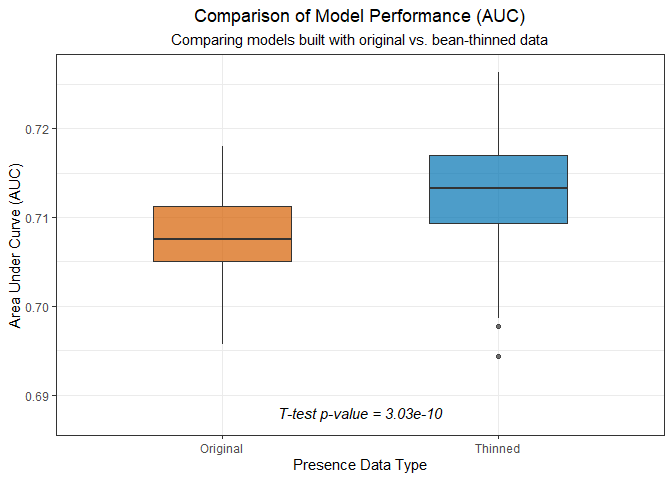
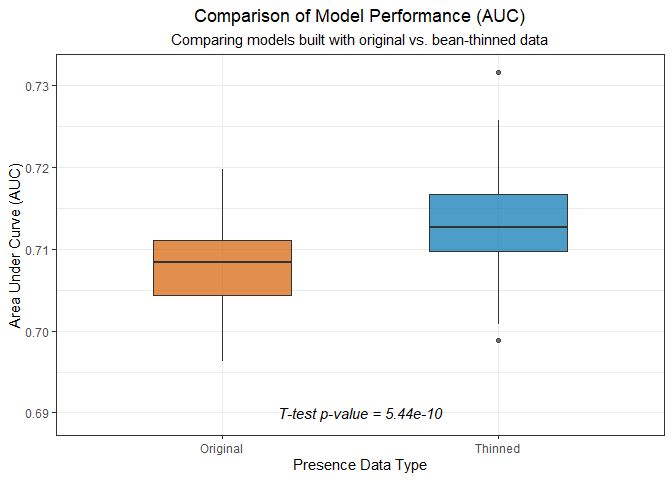
add update

diff --git a/README.md b/README.md
@@ -7,13 +7,11 @@
 
 [![R-CMD-check](https://github.com/paanwaris/bean/actions/workflows/R-CMD-check.yaml/badge.svg)](https://github.com/paanwaris/bean/actions/workflows/R-CMD-check.yaml)
 [![Codecov test
-coverage](https://codecov.io/gh/paanwaris/bean/branch/main/graph/badge.svg)](https://app.codecov.io/gh/paanwaris/bean?branch=main)
+coverage](https://codecov.io/gh/paanwaris/bean/graph/badge.svg)](https://app.codecov.io/gh/paanwaris/bean)
 [![Lifecycle:
 experimental](https://img.shields.io/badge/lifecycle-experimental-orange.svg)](https://lifecycle.r-lib.org/articles/stages.html#experimental)
 [![License:
 MIT](https://img.shields.io/badge/License-MIT-yellow.svg)](https://opensource.org/licenses/MIT)
-[![Codecov test
-coverage](https://codecov.io/gh/paanwaris/bean/graph/badge.svg)](https://app.codecov.io/gh/paanwaris/bean)
 <!-- badges: end -->
 
 ## Ecological Motivation
@@ -572,7 +570,7 @@ auc_original
 #> 
 #> Summary of AUC Scores:
 #>   Mean_AUC SD_AUC Median_AUC Min_AUC Max_AUC
-#> 1    0.708  0.005      0.708   0.696   0.718
+#> 1    0.708  0.005      0.708   0.696    0.72
 #> 
 #> To see the distribution of AUC scores, run plot(your_results_object).
 
@@ -628,7 +626,7 @@ auc_thinned
 #> 
 #> Summary of AUC Scores:
 #>   Mean_AUC SD_AUC Median_AUC Min_AUC Max_AUC
-#> 1    0.713  0.006      0.713   0.694   0.726
+#> 1    0.713  0.006      0.713   0.699   0.732
 #> 
 #> To see the distribution of AUC scores, run plot(your_results_object).
 
@@ -646,13 +644,13 @@ auc_ttest
 #>  Welch Two Sample t-test
 #> 
 #> data:  auc_original$all_auc_scores and auc_thinned$all_auc_scores
-#> t = -6.674, df = 178.55, p-value = 3.028e-10
+#> t = -6.5426, df = 190.49, p-value = 5.437e-10
 #> alternative hypothesis: true difference in means is not equal to 0
 #> 95 percent confidence interval:
-#>  -0.006807833 -0.003700704
+#>  -0.006691272 -0.003591235
 #> sample estimates:
 #> mean of x mean of y 
-#> 0.7078687 0.7131229
+#> 0.7079495 0.7130908
 
 # --- 5. Visualize the Comparison ---
 # Combine results into a data frame for plotting
